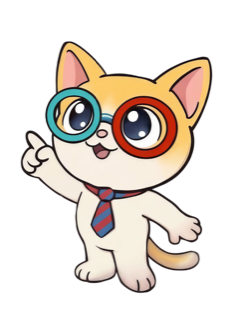
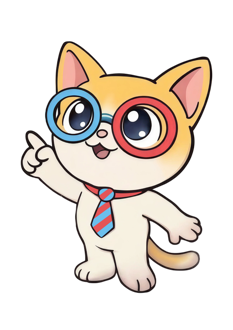
chore: update mascot images

diff --git a/src/views/resident/MeetingDetailView.vue b/src/views/resident/MeetingDetailView.vue
@@ -240,7 +240,7 @@ function download() {
     <Empty v-else-if="!meeting" class="gap-1 pt-10">
       <EmptyMedia>
         <!-- alt 留空：圖片只是裝飾，螢幕閱讀器會跳過 -->
-        <img :src="mascotUrl" alt="" width="279" height="240" class="h-[120px] w-auto" />
+        <img :src="mascotUrl" alt="" width="233" height="330" class="h-[120px] w-auto" />
       </EmptyMedia>
       <EmptyTitle class="type-greeting">找不到這份會議紀錄</EmptyTitle>
       <EmptyDescription class="type-body">可能還沒公開，或是網址不正確。</EmptyDescription>
@@ -352,7 +352,7 @@ function download() {
           <!-- 搜尋中、沒找到 -->
           <Empty v-else-if="searchWord" class="gap-1 pt-6">
             <EmptyMedia>
-              <img :src="mascotUrl" alt="" width="279" height="240" class="h-[120px] w-auto" />
+              <img :src="mascotUrl" alt="" width="233" height="330" class="h-[120px] w-auto" />
             </EmptyMedia>
             <EmptyTitle class="type-greeting">找不到「{{ searchWord }}」相關內容</EmptyTitle>
             <EmptyDescription class="type-body">請換個關鍵字，例如：電梯、防水</EmptyDescription>

diff --git a/src/views/resident/MyCommentsView.vue b/src/views/resident/MyCommentsView.vue
@@ -67,7 +67,7 @@ const pendingCount = computed(() => tabs.value[1].comments.length)
       <Empty v-else-if="tab.comments.length === 0" class="gap-3 pt-10">
         <EmptyMedia>
           <!-- alt 留空：圖片只是裝飾，螢幕閱讀器會跳過 -->
-          <img :src="mascotUrl" alt="" width="279" height="240" class="h-[94px] w-auto" />
+          <img :src="mascotUrl" alt="" width="233" height="330" class="h-[94px] w-auto" />
         </EmptyMedia>
         <!-- 結尾的 ! 是「一定要用這個」：ui/empty 本身有 text-sm 的預設字級，不加會被蓋掉變成 14px -->
         <EmptyTitle class="type-card-title! text-heading">{{ tab.emptyTitle }}</EmptyTitle>

diff --git a/src/views/resident/AnnouncementsView.vue b/src/views/resident/AnnouncementsView.vue
@@ -116,7 +116,7 @@ watch(currentTab, markCurrentTabRead)
         <EmptyMedia>
           <!-- alt 留空：圖片只是裝飾，螢幕閱讀器會跳過 -->
           <!-- width / height 寫圖檔尺寸，讓瀏覽器先算好比例；實際顯示高度由 h-[84px] 決定 -->
-          <img :src="mascotUrl" alt="" width="279" height="240" class="h-[84px] w-auto" />
+          <img :src="mascotUrl" alt="" width="233" height="330" class="h-[84px] w-auto" />
         </EmptyMedia>
         <EmptyTitle class="type-card-title text-heading">{{ tab.emptyTitle }}</EmptyTitle>
         <EmptyDescription class="type-body">有新公告時好彼管家會通知你。</EmptyDescription>

diff --git a/src/views/resident/ReportsView.vue b/src/views/resident/ReportsView.vue
@@ -71,7 +71,7 @@ const tabs = computed(() => [
         <EmptyMedia>
           <!-- alt 留空：圖片只是裝飾，螢幕閱讀器會跳過 -->
           <!-- width / height 寫圖檔尺寸，讓瀏覽器先算好比例；實際顯示高度由 h-[120px] 決定 -->
-          <img :src="mascotUrl" alt="" width="279" height="240" class="h-[120px] w-auto" />
+          <img :src="mascotUrl" alt="" width="233" height="330" class="h-[120px] w-auto" />
         </EmptyMedia>
         <EmptyTitle class="type-greeting">{{ tab.emptyText }}</EmptyTitle>
         <EmptyDescription class="type-body">發現社區有問題，隨時可以通報喔！</EmptyDescription>

diff --git a/src/views/committee/NewTaskView.vue b/src/views/committee/NewTaskView.vue
@@ -153,7 +153,7 @@ function cancel() {
     <Empty v-else-if="!canAssign || caseProblem" class="gap-1 pt-10">
       <EmptyMedia>
         <!-- alt 留空：圖片只是裝飾，螢幕閱讀器會跳過 -->
-        <img :src="mascotUrl" alt="" width="279" height="240" class="h-[120px] w-auto" />
+        <img :src="mascotUrl" alt="" width="233" height="330" class="h-[120px] w-auto" />
       </EmptyMedia>
       <EmptyTitle class="type-greeting">{{ canAssign ? '沒辦法交辦' : '只有主委、副主委可以交辦' }}</EmptyTitle>
       <EmptyDescription v-if="caseProblem" class="type-body">{{ caseProblem }}</EmptyDescription>

diff --git a/src/views/committee/CasesView.vue b/src/views/committee/CasesView.vue
@@ -87,7 +87,7 @@ const shownCases = computed(() =>
     <Empty v-else-if="!shownCases.length" class="gap-1 pt-10">
       <EmptyMedia>
         <!-- alt 留空：圖片只是裝飾，螢幕閱讀器會跳過 -->
-        <img :src="mascotUrl" alt="" width="279" height="240" class="h-[120px] w-auto" />
+        <img :src="mascotUrl" alt="" width="233" height="330" class="h-[120px] w-auto" />
       </EmptyMedia>
       <EmptyTitle class="type-greeting">這個條件下沒有案件</EmptyTitle>
       <EmptyDescription class="type-body">換個條件看看，或直接新增一個案件</EmptyDescription>

diff --git a/src/views/committee/VendorListView.vue b/src/views/committee/VendorListView.vue
@@ -81,7 +81,7 @@ const shownVendors = computed(() => {
     <Empty v-else-if="!shownVendors.length" class="gap-1 pt-6">
       <EmptyMedia>
         <!-- alt 留空：圖片只是裝飾，螢幕閱讀器會跳過 -->
-        <img :src="mascotUrl" alt="" width="279" height="240" class="h-[120px] w-auto" />
+        <img :src="mascotUrl" alt="" width="233" height="330" class="h-[120px] w-auto" />
       </EmptyMedia>
       <EmptyTitle class="type-greeting">沒有符合的廠商</EmptyTitle>
       <EmptyDescription class="type-body">換個關鍵字，或看看其他合作狀態</EmptyDescription>

diff --git a/src/views/committee/AnnouncementDetailView.vue b/src/views/committee/AnnouncementDetailView.vue
@@ -202,7 +202,7 @@ const publishRows = computed(() => {
     <Empty v-else-if="!announcement" class="gap-1 pt-10">
       <EmptyMedia>
         <!-- alt 留空：圖片只是裝飾，螢幕閱讀器會跳過 -->
-        <img :src="mascotUrl" alt="" width="279" height="240" class="h-[120px] w-auto" />
+        <img :src="mascotUrl" alt="" width="233" height="330" class="h-[120px] w-auto" />
       </EmptyMedia>
       <EmptyTitle class="type-greeting">找不到這則公告</EmptyTitle>
       <EmptyDescription class="type-body">可能已經刪除，或是網址不正確。</EmptyDescription>

diff --git a/src/views/committee/ContractsView.vue b/src/views/committee/ContractsView.vue
@@ -76,7 +76,7 @@ const shownContracts = computed(() => {
     <Empty v-else-if="!shownContracts.length" class="gap-1 pt-6">
       <EmptyMedia>
         <!-- alt 留空：圖片只是裝飾，螢幕閱讀器會跳過 -->
-        <img :src="mascotUrl" alt="" width="279" height="240" class="h-[120px] w-auto" />
+        <img :src="mascotUrl" alt="" width="233" height="330" class="h-[120px] w-auto" />
       </EmptyMedia>
       <EmptyTitle class="type-greeting">沒有符合的合約</EmptyTitle>
       <EmptyDescription class="type-body">換個關鍵字或狀態試試看。</EmptyDescription>

diff --git a/src/views/committee/EquipmentListView.vue b/src/views/committee/EquipmentListView.vue
@@ -93,7 +93,7 @@ const shownDevices = computed(() => {
     <Empty v-else-if="!shownDevices.length" class="gap-1 pt-6">
       <EmptyMedia>
         <!-- alt 留空：圖片只是裝飾，螢幕閱讀器會跳過 -->
-        <img :src="mascotUrl" alt="" width="279" height="240" class="h-[120px] w-auto" />
+        <img :src="mascotUrl" alt="" width="233" height="330" class="h-[120px] w-auto" />
       </EmptyMedia>
       <EmptyTitle class="type-greeting">沒有符合的設備</EmptyTitle>
       <EmptyDescription class="type-body">換個關鍵字或狀態試試看。</EmptyDescription>

diff --git a/src/views/staff/EquipmentListView.vue b/src/views/staff/EquipmentListView.vue
@@ -94,7 +94,7 @@ const shownDevices = computed(() => {
     <Empty v-else-if="!shownDevices.length" class="gap-1 pt-6">
       <EmptyMedia>
         <!-- alt 留空：圖片只是裝飾，螢幕閱讀器會跳過 -->
-        <img :src="mascotUrl" alt="" width="279" height="240" class="h-[120px] w-auto" />
+        <img :src="mascotUrl" alt="" width="233" height="330" class="h-[120px] w-auto" />
       </EmptyMedia>
       <EmptyTitle class="type-greeting">沒有符合的設備</EmptyTitle>
       <EmptyDescription class="type-body">換個關鍵字或狀態試試看。</EmptyDescription>

diff --git a/src/views/committee/EquipmentDetailView.vue b/src/views/committee/EquipmentDetailView.vue
@@ -111,7 +111,7 @@ const shownRecords = computed(() =>
     <Empty v-else-if="!device" class="gap-1 pt-10">
       <EmptyMedia>
         <!-- alt 留空：圖片只是裝飾，螢幕閱讀器會跳過 -->
-        <img :src="mascotUrl" alt="" width="279" height="240" class="h-[120px] w-auto" />
+        <img :src="mascotUrl" alt="" width="233" height="330" class="h-[120px] w-auto" />
       </EmptyMedia>
       <EmptyTitle class="type-greeting">找不到這台設備</EmptyTitle>
       <EmptyDescription class="type-body">可能已經刪除，或是網址不正確。</EmptyDescription>
